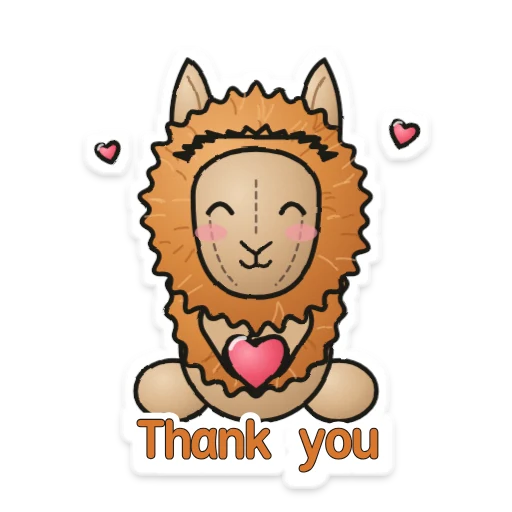
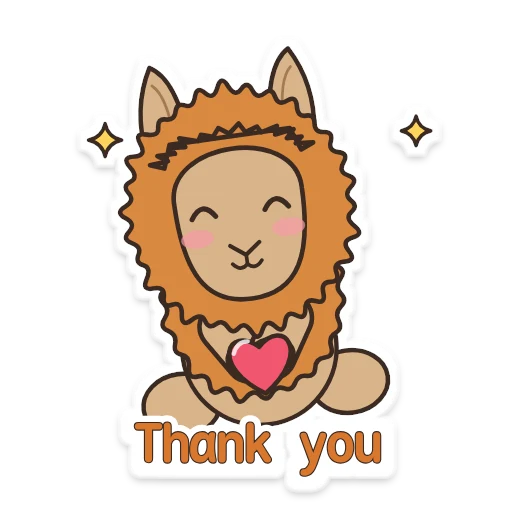
Redraw the stickers in the style of LINE stickers (#3)
* Type every common apostrophe word by its letters

The open word list drops apostrophes, and only 35 contractions were added
back, so words like it's, I'll, I'd, we're, we'll, she'll, it'll, could've
and o'clock could not be typed in mini mode. Add the missing ones. Where the
letters are also a word (its, ill, id, were, well, hell, shell, shed, wed,
lets) both spellings are kept under the same key and both are offered.

The user's history is counted per key, so it boosted "ill" even when the
user writes "I'll". When a key has several spellings, only the one the user
writes now gets that boost.

Claude-Session: https://claude.ai/code/session_011casVGjZG3hmxg1QdverDq

* Add a sticker panel, with built-in stickers and your own

A sticker tab in the emoji panel opens a grid of stickers. Tap one to send
it: apps that take images from keyboards get it through commitContent, as
WebP where they accept it (WhatsApp shows it as a sticker) or else PNG;
apps that take no images open the share sheet. The + in the panel's bar
opens Android's photo picker (no storage permission) and fits the picked
image on a transparent 512 x 512 square; hold one of your own stickers to
delete it. Your stickers live in the app's private files, which are never
backed up.

The built-in stickers are drawn by tools/stickers (SVG, rendered to WebP).

Claude-Session: https://claude.ai/code/session_011casVGjZG3hmxg1QdverDq

* Draw the stickers as the owner's plush friends; let releases run by hand
[…]

Changed region(s): [[0.1562, 0.0938, 0.7812, 0.9375], [0.75, 0.2188, 0.8438, 0.3125]]

diff --git a/README.md b/README.md
@@ -130,7 +130,7 @@ How sensitive swipes are (shortest swipe, flick speed, long swipe, straightness)
 </p>
 
 - **Emoji panel:** every Unicode emoji, your most-used first, with tabs to jump between groups. Open it from the zoom (☺) or by holding the comma.
-- **Stickers:** five plush friends, drawn as stickers: Lolo the llama, Bell and Curly the sheep, Sunny the leopard and Snow the dog, in 28 moods. Tap the sticker tab in the emoji panel, then tap one to send it. Messengers that take images from keyboards (WhatsApp, Messenger, Telegram, Signal…) get it right in the chat; other apps open the share sheet. Tap **+** to turn your own photos into stickers (no storage permission: Android's photo picker hands over just the one image) and hold one of yours to delete it.
+- **Stickers:** five plush friends, drawn as stickers: Lolo the llama, Bell and Curly the sheep, Sunny the leopard and Snow the dog, in 33 stickers, drawn in the flat, expressive style of LINE stickers. Tap the sticker tab in the emoji panel, then tap one to send it. Messengers that take images from keyboards (WhatsApp, Messenger, Telegram, Signal…) get it right in the chat; other apps open the share sheet. Tap **+** to turn your own photos into stickers (no storage permission: Android's photo picker hands over just the one image) and hold one of yours to delete it.
 - **Clipboard:** your last 30 copies (kept for 7 days) as cards. Tap to paste, hold to delete. Anything copied from a password or private field is skipped.
 - **GIF search** with [KLIPY](https://partner.klipy.com): search, tap and the GIF is sent as a real animated GIF (apps that can't take GIFs get the link). It needs your own free KLIPY key, entered in the app. Don't want GIFs? Turn off **Show GIFs** and the GIF and clipboard tabs disappear from the emoji panel (mini mode still opens the clipboard from its symbol row).
 
